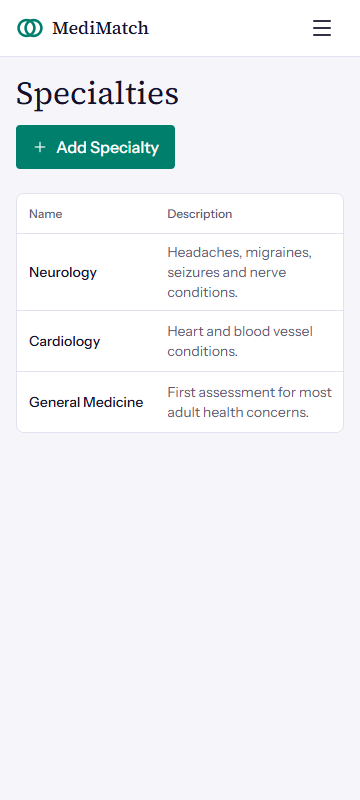
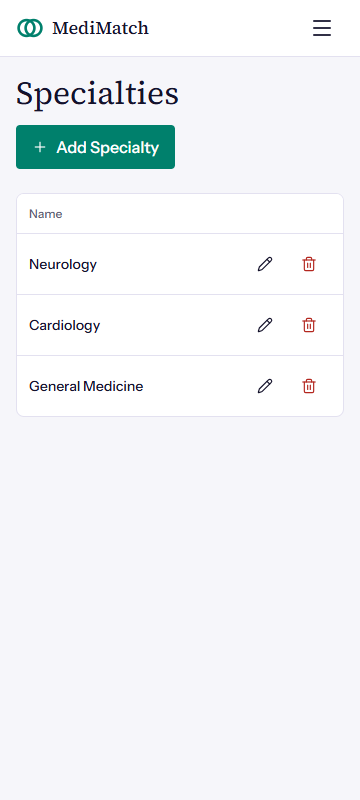
fix(web): keep specialty actions on screen on phones

diff --git a/web/src/pages/admin/AdminSpecialtiesPage.tsx b/web/src/pages/admin/AdminSpecialtiesPage.tsx
@@ -130,7 +130,7 @@ export default function AdminSpecialtiesPage() {
           <TableHead>
             <tr>
               <TableHeader>{t('specialties.name')}</TableHeader>
-              <TableHeader>{t('specialties.descriptionField')}</TableHeader>
+              <TableHeader className="hidden md:table-cell">{t('specialties.descriptionField')}</TableHeader>
               <TableHeader>
                 <span className="sr-only">{t('adminDoctors.actions')}</span>
               </TableHeader>
@@ -140,7 +140,7 @@ export default function AdminSpecialtiesPage() {
             {specialties.data.map((specialty) => (
               <TableRow key={specialty.id}>
                 <TableCell className="font-medium whitespace-nowrap">{specialty.name}</TableCell>
-                <TableCell className="min-w-48 text-muted">{specialty.description}</TableCell>
+                <TableCell className="hidden min-w-48 text-muted md:table-cell">{specialty.description}</TableCell>
                 <TableCell>
                   <div className="flex justify-end">
                     <IconButton label={t('specialties.editNamed', { name: specialty.name })} onClick={() => setEditing(specialty)}>

diff --git a/docs/UI_REVIEW.md b/docs/UI_REVIEW.md
@@ -1,6 +1,8 @@
 # MediMatch AI: UI Review Log
 
-Critique of the web UI against `docs/UI_PRINCIPLES.md`, from reviewing the screenshots in `web/screenshots/` at 360x800, 768x1024 and 1440x900.
+Critique of the web UI against `docs/UI_PRINCIPLES.md`, from screenshots at 360x800, 768x1024 and 1440x900 in `web/screenshots/`.
+
+**Coverage:** about 30 of the 79 screenshots were reviewed by eye, spanning every portal and all three sizes, and including every screen changed by a fix. The rest passed the automated checks below but were not looked at individually.
 
 Screenshots use a mocked API (`web/e2e/support/`) shaped from `backend/scripts/seed.py`. Regenerate them with `npx playwright test screens` from `web/`.
 
@@ -15,6 +17,7 @@ Screenshots use a mocked API (`web/e2e/support/`) shaped from `backend/scripts/s
 | Admin doctors and patients, 360px | Status and Review sat off-screen in a scrolling table | Secondary columns hide on phones; name, status and action stay |
 | Availability | Past days had shorter headers, so columns misaligned | Fixed header height |
 | Availability, 360px | "Week of 2 Nov" wrapped | Kept on one line |
+| Admin specialties, 360px | Edit and delete sat off-screen in a scrolling table | Description hides on phones |
 | Onboarding | A blank fee showed as 0, which reads as free | Unset fee shows an empty field |
 | Verification | No route back to onboarding after "Finish Later" | "Continue Setup" link while in review |
 
